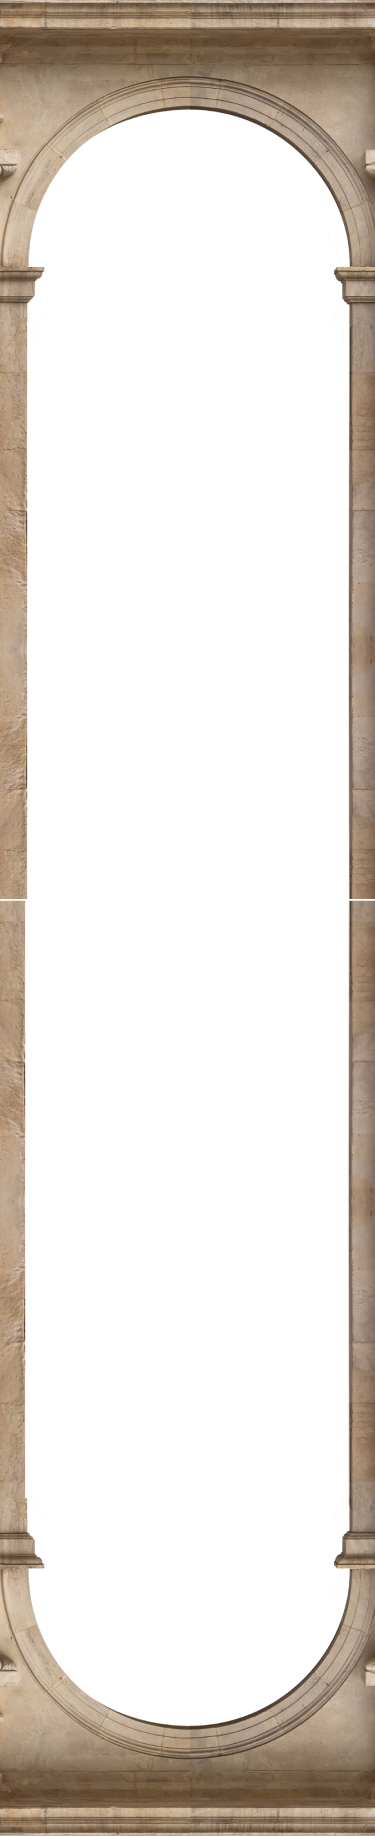
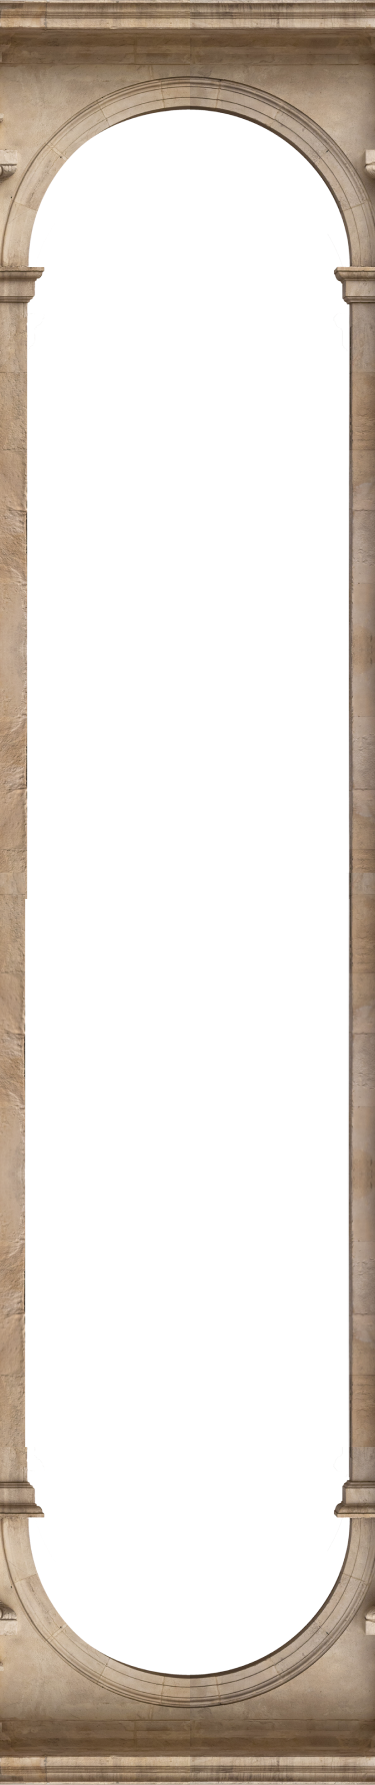
07/09

diff --git a/pages/product-page.vue b/pages/product-page.vue
@@ -4,7 +4,7 @@
       <img
         src="/img/product-temple.png"
         alt=""
-        class="absolute xl:block hidden z-50"
+        class="absolute xl:block hidden z-50 w-full"
       />
       <img
         src="/img/product-temple-tab.png"
@@ -17,7 +17,7 @@
         class="absolute md:hidden block z-50 w-full"
       />
     </div>
-    <div class="fixed top-4 right-0" style="z-index: 62">
+    <div class="fixed top-4 md:right-20 right-0" style="z-index: 62">
       <img
         src="/img/label.png"
         alt=""
@@ -30,7 +30,7 @@
       />
     </div>
 
-    <div class="fixed top-4 left-0" style="z-index: 62">
+    <div class="fixed top-4 md:left-20 left-0" style="z-index: 62">
       <img
         src="/img/label.png"
         alt=""
@@ -43,13 +43,38 @@
       />
     </div>
     <div
-      class="sticky top-3/4 w-full lg:flex hidden justify-end xl:pr-10"
+      class="
+        md:flex
+        hidden
+        flex-wrap
+        md:justify-between
+        justify-center
+        sticky
+        top-0
+        items-start
+        pt-28
+      "
+      style="z-index: 60"
+    >
+      <img
+        src="/img/product-castle-pillar.svg"
+        alt=""
+        class="absolute top-20"
+      />
+      <img
+        src="/img/product-castle-pillar.svg"
+        alt=""
+        class="absolute right-0 top-20"
+      />
+    </div>
+    <div
+      class="sticky top-3/4 w-full lg:flex hidden justify-end xl:pr-20"
       style="z-index: 70"
     >
       <CartDropdownComponent />
     </div>
     <div
-      class="fixed top-0 z-50 w-full flex justify-center"
+      class="fixed top-20 z-50 w-full flex justify-center"
       style="z-index: 62"
     >
       <button
@@ -59,7 +84,7 @@
         <img src="/img/back-img.svg" alt="" />
       </button>
     </div>
-    <div class="flex flex-wrap 2xl:pt-60 pt-36 relative" style="z-index: 60">
+    <div class="flex flex-wrap 2xl:pt-40 pt-36 relative" style="z-index: 60">
       <div class="w-full lg:px-0 md:px-6 px-10">
         <div
           class="
@@ -89,15 +114,15 @@
         class="
           md:w-360px
           w-full
-          lg:px-0
+          lg:px-6
           md:px-6
           px-10
           mx-auto
-          -mt-8
           flex flex-wrap
+          bg-white
         "
       >
-        <div class="w-full">
+        <div class="w-full -mt-8">
           <button
             class="
               btn-gradient

diff --git a/components/ProductsSection.vue b/components/ProductsSection.vue
@@ -5,7 +5,7 @@
         <img
           src="/img/product-temple.png"
           alt=""
-          class="absolute xl:block hidden z-50"
+          class="absolute xl:block hidden z-50 w-full"
         />
         <img
           src="/img/product-temple-tab.png"
@@ -19,10 +19,10 @@
         />
       </div>
       <div
-        class="sticky top-0 w-full flex justify-center -mb-24 lg:pt-16"
+        class="sticky top-0 w-full flex justify-center -mb-24 lg:pt-20"
         style="z-index: 100"
       >
-        <img src="/img/toys-label.svg" alt="" />
+        <img src="/img/toys-label.svg" alt="" class="absolute" />
       </div>
       <div
         class="
@@ -34,19 +34,19 @@
           sticky
           top-0
           items-start
-          pt-16
+          pt-28
         "
         style="z-index: 60"
       >
-        <img src="/img/product-castle-pillar.svg" alt="" class="absolute" />
+        <img src="/img/product-castle-pillar.svg" alt="" class="absolute top-20" />
         <img
           src="/img/product-castle-pillar.svg"
           alt=""
-          class="absolute right-0"
+          class="absolute right-0 top-20"
         />
       </div>
       <div
-        class="sticky top-3/4 lg:flex hidden xl:pr-24 pt-24 w-full justify-end"
+        class="sticky top-2/3 lg:flex hidden xl:pr-24 pt-24 w-full justify-end"
         style="z-index: 62"
       >
         <CartDropdownComponent />
@@ -70,7 +70,7 @@
           pb-36
           relative
           lg:pt-0
-          pt-44
+          sm:pt-44 pt-56
         "
         style="z-index: 60"
       >

diff --git a/components/CartDropdownComponent.vue b/components/CartDropdownComponent.vue
@@ -3,8 +3,9 @@
     class="w-300px h-full relative inline-block cool-transition"
     :class="toggleMenu ? '' : 'overflow-hidden'"
   >
+    <img src="/img/cart.png" alt="" class="ml-auto relative z-50 -mb-4"/>
     <button
-      class="relative w-full flex h-20 items-center z-50"
+      class="relative w-full flex h-20 items-center z-40"
       @click="toggleMenu = !toggleMenu"
     >
       <img src="/img/dropdown-img.png" alt="" class="absolute w-full h-full" />
